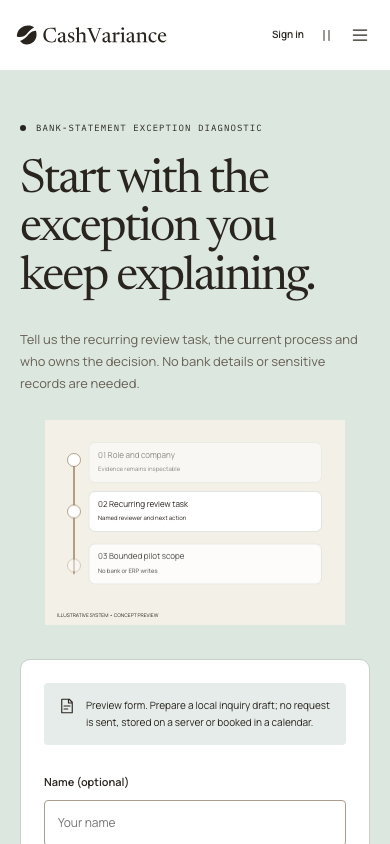
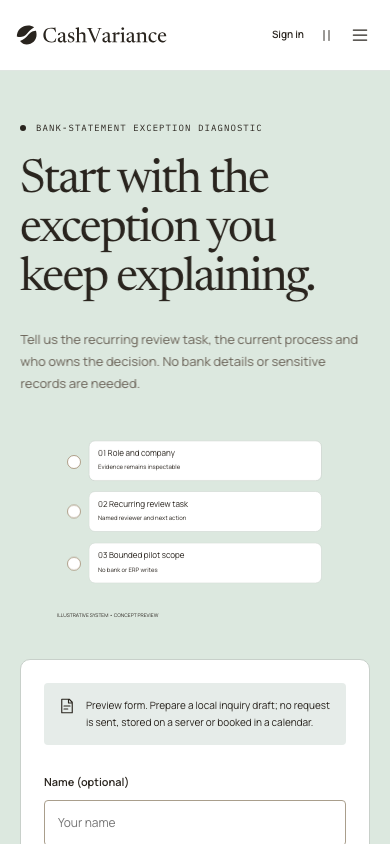
Update Site source

diff --git a/src/components/ScrollEntrances.tsx b/src/components/ScrollEntrances.tsx
@@ -1,0 +1,82 @@
+"use client";
+
+import { animate } from "motion/react";
+import { useEffect } from "react";
+import { usePathname } from "next/navigation";
+
+/** Animate content only: section backgrounds and sticky ancestors stay still. */
+export function ScrollEntrances({ disabled }: { disabled: boolean }) {
+  const pathname = usePathname();
+  useEffect(() => {
+    if (disabled || window.matchMedia("(prefers-reduced-motion: reduce)").matches) return;
+    const candidates = new Set<HTMLElement>();
+    document.querySelectorAll<HTMLElement>("[data-reveal]").forEach((el) => {
+      const children = el.matches(".support-band")
+        ? el.querySelectorAll<HTMLElement>(".support-section > div")
+        : el.matches(".heading-split, .control-rows")
+          ? el.children : null;
+      if (children) Array.from(children).forEach(child => candidates.add(child as HTMLElement));
+      else candidates.add(el);
+    });
+    document.querySelectorAll<HTMLElement>([
+      ".audience-strip > *", ".product-summary > div", ".price-note > *",
+      ".accordion-item", ".resource-links > a", ".footer-top > *",
+      ".footer-links > div", ".footer-bottom", ".product-faq > h2",
+      ".comparison > h2", ".comparison > p", ".comparison .table-scroll",
+      ".permissions-section > h2", ".permissions-section .table-scroll",
+      ".page-hero-center > h1", ".page-hero-center > p", ".catalog-hero-art",
+      ".form-intro > h1", ".form-intro > p", ".access-illustration", ".access-card",
+    ].join(",")).forEach(el => candidates.add(el));
+    // No nested entrances: moving a parent already moves its entire contents.
+    const targets = [...candidates].filter(el => ![...candidates].some(parent => parent !== el && parent.contains(el)));
+    const animations = new Map<HTMLElement, ReturnType<typeof animate>>();
+    const visible = new Set<Element>();
+    const reset = (el: HTMLElement) => {
+      animations.get(el)?.stop();
+      // Reset Motion's cached values as well as DOM styles; a queued frame
+      // must never restore an interrupted entrance after pause or focus.
+      if (animations.has(el)) animate(el, { x: 0, opacity: 1 }, { duration: 0 });
+      animations.delete(el);
+      el.style.removeProperty("transform");
+      el.style.removeProperty("opacity");
+      el.style.removeProperty("will-change");
+    };
+    targets.forEach((el, index) => {
+      el.dataset.scrollEntrance = index % 2 ? "right" : "left";
+    });
+    const observer = new IntersectionObserver(entries => {
+      let order = 0;
+      entries.forEach(entry => {
+        const el = entry.target as HTMLElement;
+        if (!entry.isIntersecting) {
+          visible.delete(el);
+          reset(el);
+          return;
+        }
+        if (visible.has(el)) return;
+        visible.add(el);
+        if (el.contains(document.activeElement)) return;
+        const distance = window.innerWidth < 600 ? 22 : 44;
+        const x = el.dataset.scrollEntrance === "left" ? -distance : distance;
+        const delay = Math.min(order++ * .09 + Number(el.dataset.revealDelay || 0), .28);
+        el.style.willChange = "transform, opacity";
+        const animation = animate(el, { x: [x, 0], opacity: [.35, 1] }, {
+          duration: .72, delay, ease: [.22, 1, .36, 1],
+          onComplete: () => { el.style.removeProperty("will-change"); },
+        });
+        animations.set(el, animation);
+      });
+    }, { threshold: 0, rootMargin: "-80px 0px -35px 0px" });
+    targets.forEach(el => observer.observe(el));
+    const focus = (event: FocusEvent) => targets.forEach(el => {
+      if (event.target instanceof Node && el.contains(event.target)) reset(el);
+    });
+    document.addEventListener("focusin", focus);
+    return () => {
+      observer.disconnect();
+      document.removeEventListener("focusin", focus);
+      targets.forEach(el => { reset(el); delete el.dataset.scrollEntrance; });
+    };
+  }, [pathname, disabled]);
+  return null;
+}

diff --git a/src/components/Primitives.tsx b/src/components/Primitives.tsx
@@ -16,6 +16,7 @@ import {
   useRef,
 } from "react";
 import art from "@/data/hero-art.json";
+import { ScrollEntrances } from "./ScrollEntrances";
 export const MotionContext = createContext({
   paused: false,
   reduced: false,
@@ -62,7 +63,10 @@ export function MotionProvider({ children }: { children: ReactNode }) {
         toggle: () => setPaused((p) => !p),
       }}
     >
-      <MotionConfig reducedMotion="user">{children}</MotionConfig>
+      <MotionConfig reducedMotion="user">
+        {children}
+        <ScrollEntrances disabled={paused || !!reduced} />
+      </MotionConfig>
     </MotionContext.Provider>
   );
 }
@@ -121,17 +125,10 @@ export function Reveal({
   className?: string;
   delay?: number;
 }) {
-  const { paused } = useContext(MotionContext);
   return (
-    <motion.div
-      className={className}
-      initial={false}
-      whileInView={paused ? {} : { opacity: [0.6, 1], y: [18, 0] }}
-      viewport={{ once: true, amount: 0.12 }}
-      transition={{ duration: 0.65, delay, ease: [0.2, 0.7, 0.2, 1] }}
-    >
+    <div className={className} data-reveal data-reveal-delay={delay}>
       {children}
-    </motion.div>
+    </div>
   );
 }
 export function Eyebrow({ children }: { children: ReactNode }) {

diff --git a/qa/QA-REPORT.md b/qa/QA-REPORT.md
@@ -32,3 +32,9 @@ The website suite still passes 94/94 checks and the demo suite 19/19. An additio
 ## Scroll-driven offer selection
 
 The five-offer explorer pins only when its full content fits beneath the header. Native page scrolling selects 01 through 05 and reverses on upward scrolling. Clicking a tab or using arrow/Home/End keys moves directly to its chapter. Mobile selection keeps the active tab in view. Short viewports use the complete unpinned tab interface, and reduced motion removes transitions without removing access to any offer. See `offers-scroll-results.json` for focused tests at the marked 775×804 viewport, desktop and mobile sizes.
+
+### Bidirectional section entrances — 14 October 2026
+- Alternating left/right, staggered Motion entrances replay on viewport reentry.
+- Content blocks animate independently; sticky offer/story containers remain unchanged.
+- Native scroll retained; pause, keyboard focus, and reduced motion settle readable content.
+- Production build passed. Site suite: 94 checks across 25 routes. Offer scrolling suite: 79 checks. New entrance suite: 8 checks covering down/up replay, final readability, both directions, pause reset, reduced motion, supporting pages, and mobile overflow.
